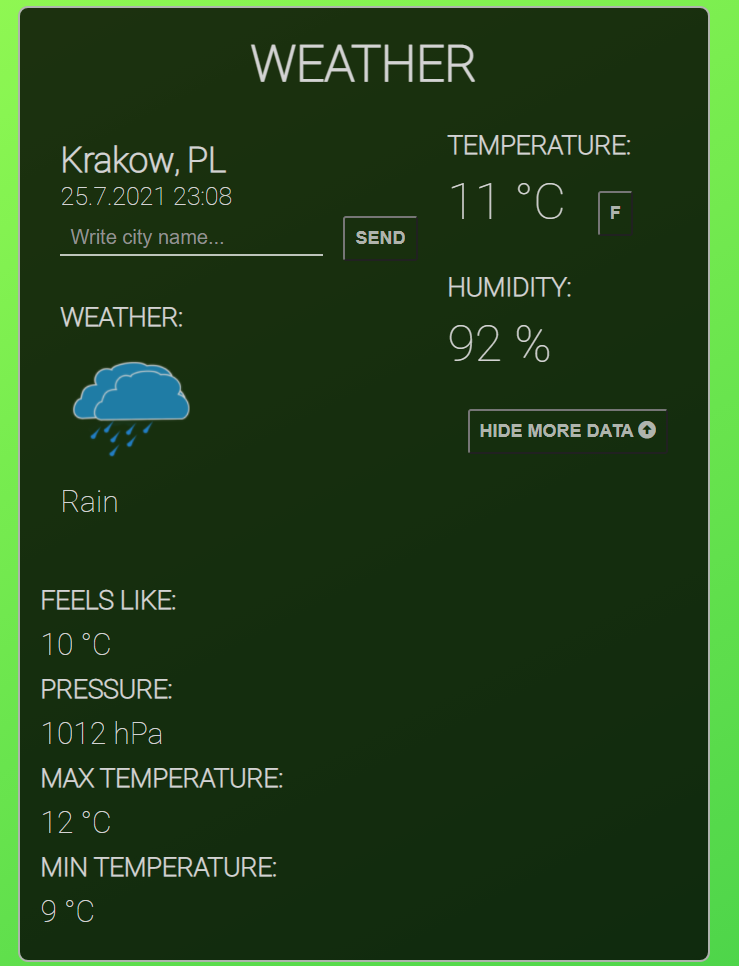
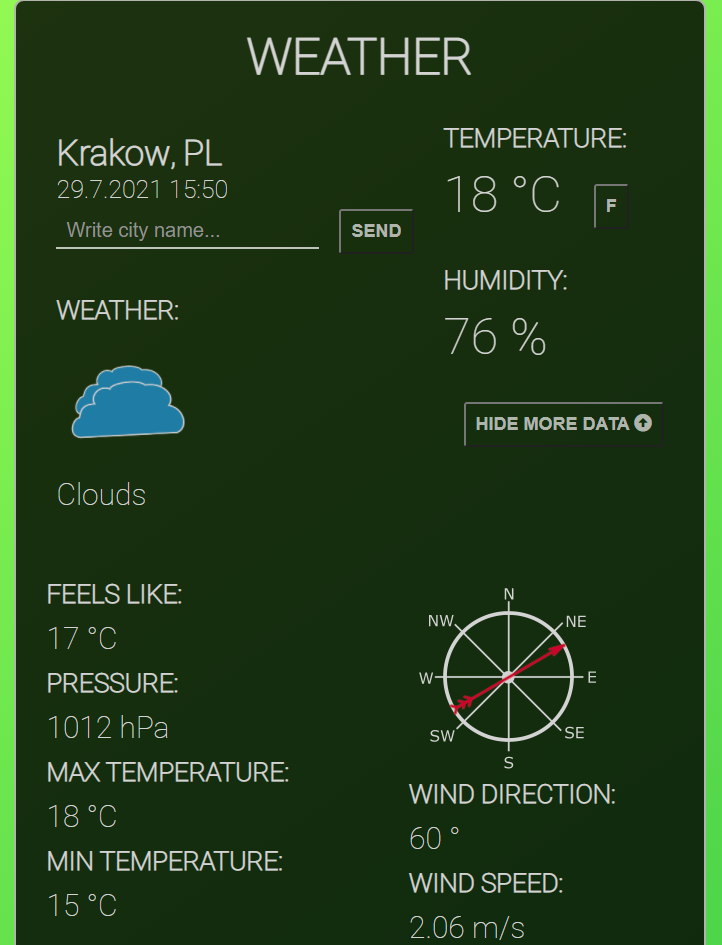
Add feature - show wind direction

diff --git a/script.js b/script.js
@@ -32,6 +32,8 @@ const maxTemperature = document.querySelector('.max-temperature');
 const minTemperature = document.querySelector('.min-temperature');
 const icon = document.querySelector('.icon');
 const anim = document.querySelectorAll('.anim');
+const displayWindDirection = document.querySelector("p[name='wind-direction']");
+const displayWindSpeed = document.querySelector("p[name='wind-speed']");
 
 let fahrenheit = false;
 let temp;
@@ -50,6 +52,11 @@ let url = '';
 let timeZoneUser = 0;
 let timeZone = 0;
 
+const rotateArrow = (wind) => {
+    const arrow = document.querySelector('.arrow');
+    arrow.style.transform = `rotate(${wind}deg)`;
+}
+
 //Get information from API
 const getWeather = (url,  geo) => {
     if  (!input.value && geo === false) {
@@ -65,7 +72,6 @@ const getWeather = (url,  geo) => {
     
     axios.get(url)
         .then (res => {
-            console.log(res);
             temp = Math.round(res.data.main.temp);
             const hum = Math.round(res.data.main.humidity);
             const fileLike = Math.round(res.data.main.feels_like);
@@ -73,6 +79,7 @@ const getWeather = (url,  geo) => {
             const minT = Math.round(res.data.main.temp_min);
             const maxT = Math.round(res.data.main.temp_max);
             const status = Object.assign({}, ...res.data.weather);
+            const wind = res.data.wind.deg;
             if  (!input.value && geo === true) {
                 timeZoneUser = res.data.timezone;
             };
@@ -87,6 +94,11 @@ const getWeather = (url,  geo) => {
             pressure.textContent = press + ' hPa';
             maxTemperature.textContent = maxT + ' °C';
             minTemperature.textContent = minT + ' °C';
+
+            displayWindDirection.textContent = wind + ' °';
+            displayWindSpeed.textContent = res.data.wind.speed + ' m/s';
+
+            rotateArrow(wind);
 
             warning.textContent = '';
             input.value ='';

diff --git a/index.html b/index.html
@@ -39,14 +39,26 @@
                 <button class="button-more-data"><span>More data </span><i class=" icon fas fa-arrow-alt-circle-down"></i></button>
             </div>
             <div class = "hide more-data">
-                <p class="headings anim" >feels like:</p>
-                <p class="feels-like more-info anim"></p>
-                <p class="headings anim" >pressure:</p>
-                <p class="pressure more-info anim"></p>
-                <p class="headings anim" >Max temperature:</p>
-                <p class="max-temperature more-info anim"></p>
-                <p class="headings anim" >Min temperature:</p>
-                <p class="min-temperature more-info anim"></p>
+                <div class="left-more-data">
+                    <p class="headings anim" >feels like:</p>
+                    <p class="feels-like more-info anim"></p>
+                    <p class="headings anim" >pressure:</p>
+                    <p class="pressure more-info anim"></p>
+                    <p class="headings anim" >Max temperature:</p>
+                    <p class="max-temperature more-info anim"></p>
+                    <p class="headings anim" >Min temperature:</p>
+                    <p class="min-temperature more-info anim"></p>
+                </div>
+                <div class="right">
+                    <div class="Weather-vane-holder">
+                    <img src="WeatherApp grafiki/Weather-vane.png" alt="" class="Weather-vane anim">
+                    <img src="WeatherApp grafiki/arrow.png" alt="" class="arrow anim icon">
+                    </div>
+                    <p class="headings anim" >Wind direction:</p>
+                    <p class=" more-info anim"  name="wind-direction"></p>
+                    <p class="headings anim" >Wind speed:</p>
+                    <p class=" more-info anim" name="wind-speed"></p>
+                </div>
             </div>
         </div>
     </div>

diff --git a/css.css b/css.css
@@ -33,14 +33,18 @@ body {
     align-items: center;  
 }
 
-.left, .right {
+.left, .right, .left-more-data {
     display: inline;
     padding: 10px;
-    float:left;
+    float: left;
 }
 
 .right {
     width: 250px;
+}
+
+.left-more-data {
+    margin-right: 100px;
 }
 
 .main-info {
@@ -122,6 +126,7 @@ button:hover {
     font-weight: bold;
     text-align: left;
     padding-bottom: 10px;
+
 }
 
 .picture {
@@ -129,6 +134,36 @@ button:hover {
     display: block;
     width: 140px;
     height: 140px;
+}
+
+.Weather-vane-holder {
+    float: left;
+    display: block;
+    position: relative; 
+    width: 200px;
+    height: 200px;
+}
+
+.Weather-vane {
+    left: 0px;
+    top: 0px;
+    position: absolute;
+    display: block;
+    width: 200px;
+    height: 200px;
+    z-index: 0;
+}
+
+.arrow {  
+    left: 0px;
+    top: 0px;
+    position: absolute;
+    display: block;
+    width: 200px;
+    height: 200px;
+    transform: rotate(0deg);
+    z-index: 1;
+
 }
 
 .warning {
@@ -140,7 +175,7 @@ button:hover {
 }
 
 .button-more-data {
-    margin-bottom: 120px;
+    margin-bottom: 80px;
 }
 
 .active {
